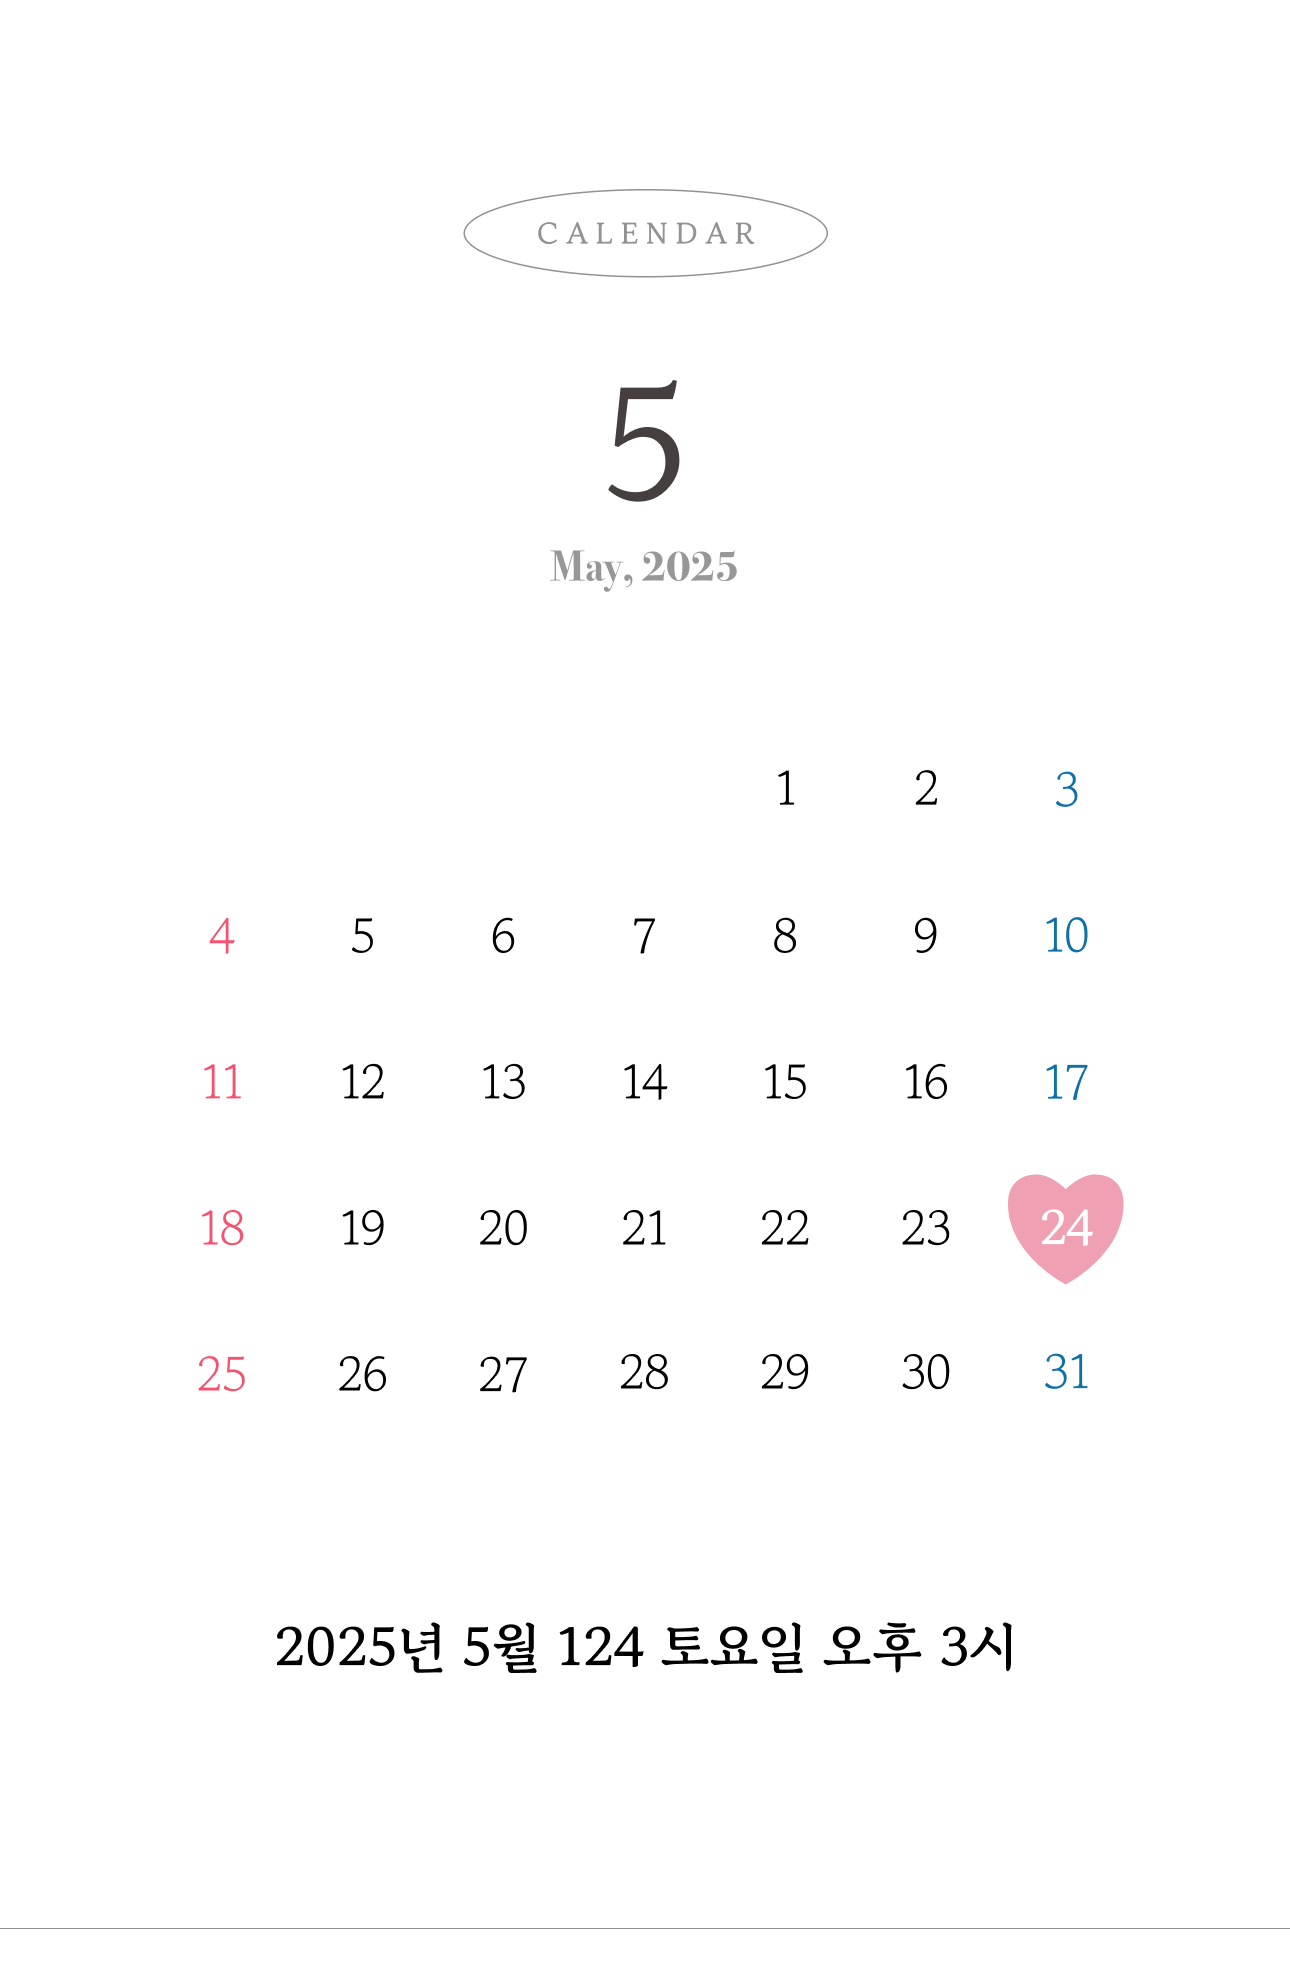
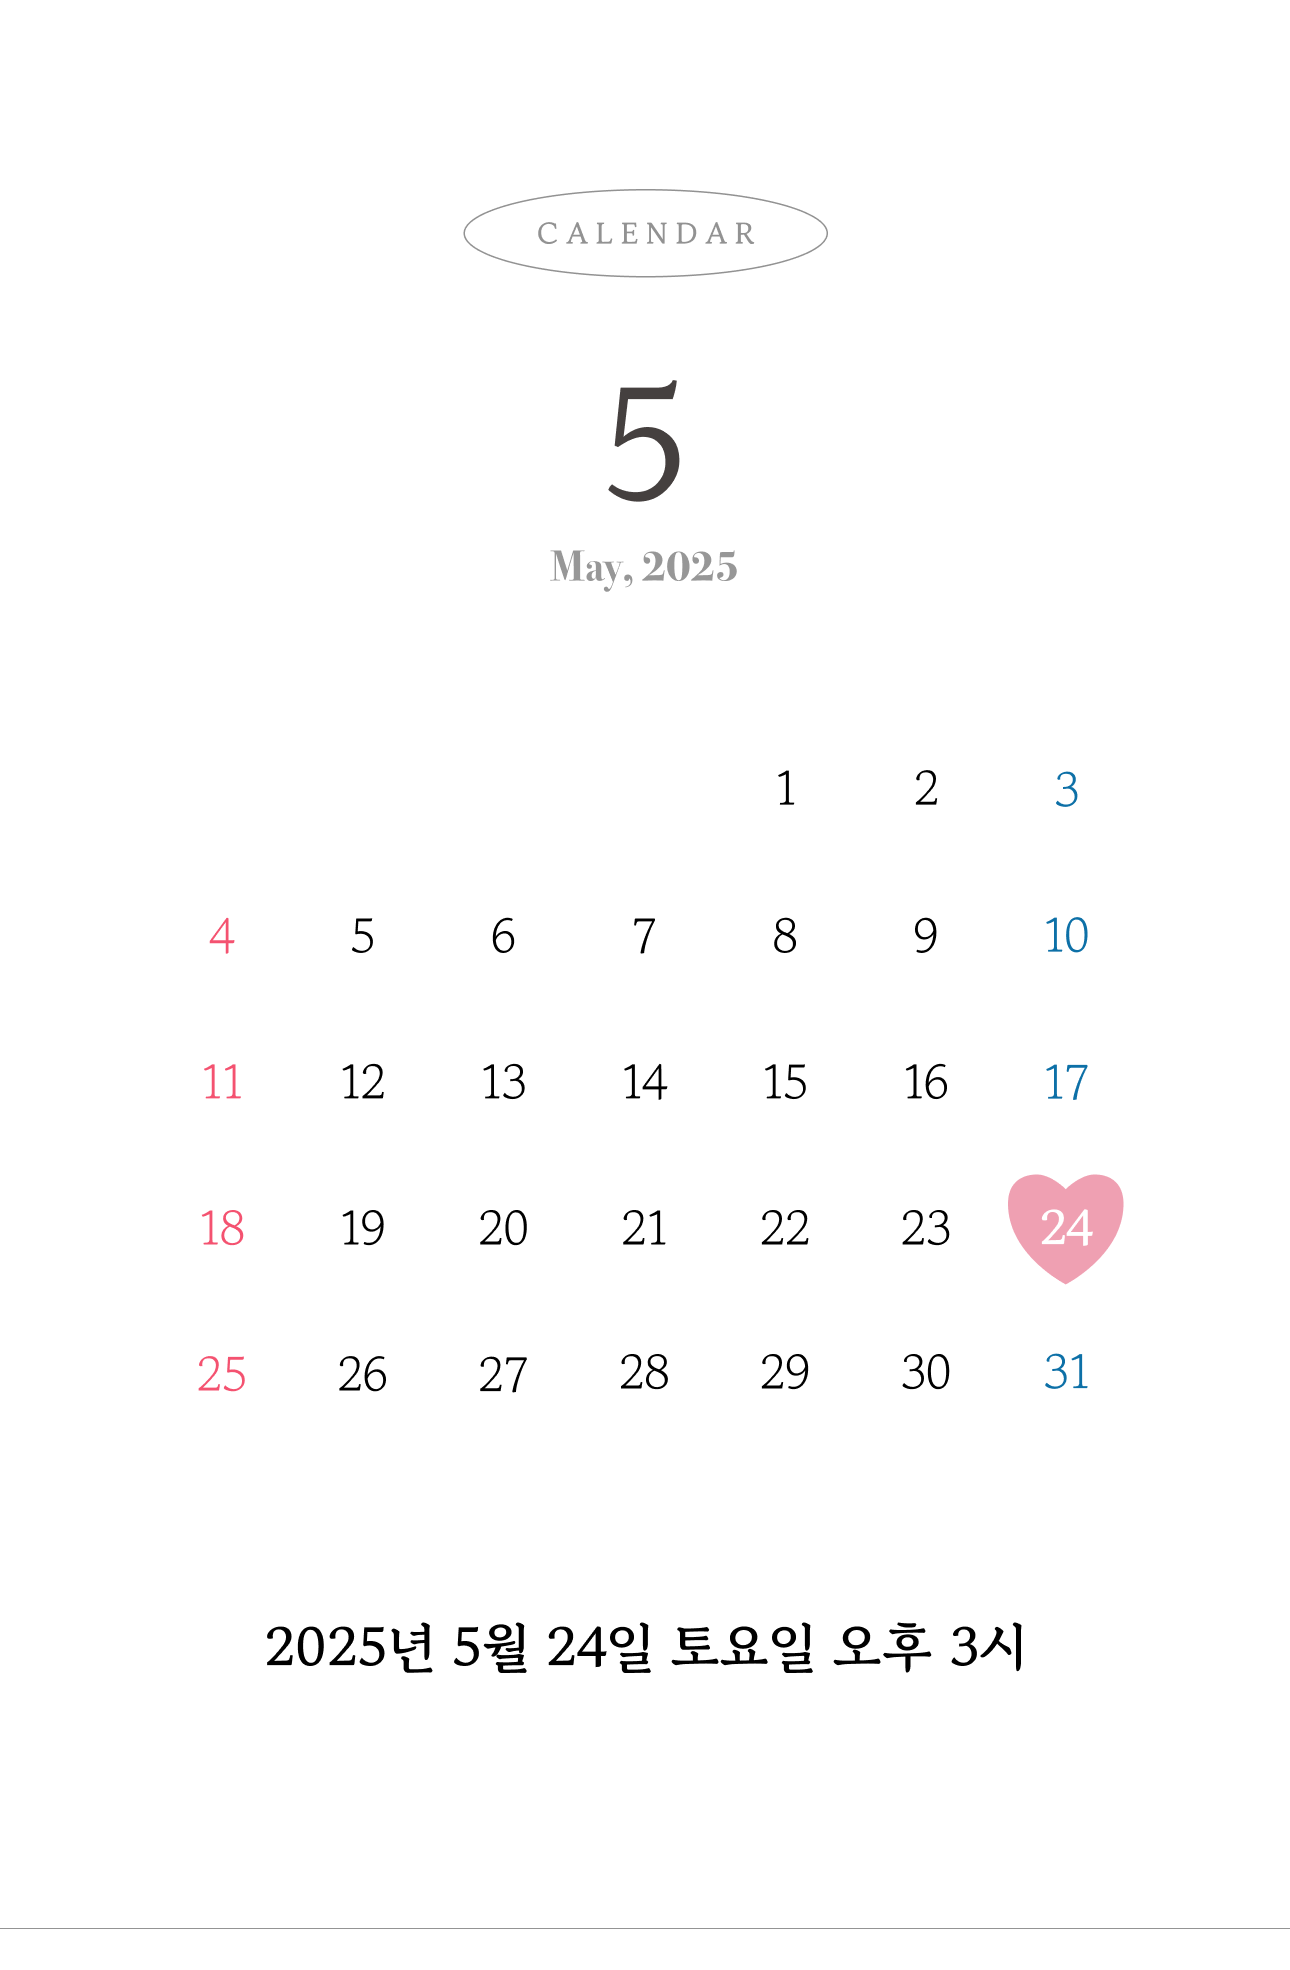
2

Changed region(s): [[0.2171, 0.8051, 0.7132, 0.867], [0.7442, 0.8051, 0.8062, 0.867]]

diff --git a/index.html b/index.html
@@ -175,7 +175,7 @@
       <section id="gallerySection">
         <div id="galleryImages" class="gallery">
           <span style="
-            color: #E8AF48;
+            color: #8E755F;
             font-size: 10px;
             min-width: 3rem;
             display: inline-block;"><b>G A L L E R Y</b></span><br>
@@ -229,7 +229,7 @@
               <th>SEC</th>
             </tr>
             <tr>
-              <td id="daysLeft" style="color: #FFA400; font-weight: 600">
+              <td id="daysLeft" style="color: #EFA0B2; font-weight: 600">
                 119
               </td>
               <td>:</td>
@@ -253,7 +253,7 @@
         <div class="animate-on-scroll">
 
           <span style="
-            color: #E8AF48;
+            color: #8E755F;
             font-size: 9px;
             min-width: 3rem;
             display: inline-block;"><b>L O C A T I O N</b></span>
@@ -341,7 +341,7 @@
       </div>
 
       <!-- map 길찾기 -->
-      <div class="animate-on-scroll" id="MapIconDiv" style="background-color: #F0CD44;">
+      <div class="animate-on-scroll" id="MapIconDiv" style="background-color: #AFAFAF;">
         <div>
           <a class="maplink" href="https://kko.kakao.com/_wVqFzIuvG">
             <div>

diff --git a/style.css b/style.css
@@ -125,7 +125,7 @@ svg {
 }
 
 #gallerySection {
-  background-color: #FDF8EB;
+  background-color: #F5F5F5;
   padding-top: 20%;
 }
 
@@ -133,7 +133,7 @@ svg {
   display: grid;
   grid-template-columns: repeat(2, minmax(0, 1fr));
   grid-gap: 5px;
-  background-color: #FDF8EB;
+  background-color: #F5F5F5;
   /* (A2) OPTIONAL WIDTH RESTRICT */
   max-width: 1000px;
   margin: 0 auto;
@@ -232,7 +232,7 @@ svg {
 }
 
 .countdownTimeInfo {
-  color: #FFA400;
+  color: #EFA0B2;
   font-weight: 600;
 }
 
@@ -274,7 +274,7 @@ svg {
 
 #locationSection {
   margin-top: 3%;
-  background-color: #FDF8EB;
+  background-color: #F5F5F5;
   height: 265px;
 }
 
@@ -339,7 +339,7 @@ main {
 }
 
 .accordion {
-  background-color: #FDF8EB;
+  background-color: #F5F5F5;
   color: black;
   cursor: pointer;
   padding: 0.8rem;
@@ -424,7 +424,7 @@ main {
 }
 
 #MapIconDiv {
-  color: #000000;
+  color: #ffffff;
   font-size: 13px;
   text-align: center;
   background-color: white;
@@ -436,7 +436,7 @@ main {
 }
 
 #kakaoMapButton {
-  background-color: #F0CD44;
+  background-color: #AFAFAF;
   padding: 10px;
   text-align: center;
   width: auto;

diff --git a/gallery.js b/gallery.js
@@ -46,22 +46,22 @@ window.onload = () => {
     Kakao.Share.sendDefault({
       objectType: "feed",
       content: {
-        title: "경훈 ♥ 은지의 모바일 청첩장",
-        description: "2025년 6월 7일 토요일♡",
+        title: "승연 ♥ 하린의 모바일 청첩장",
+        description: "2025년 5월 24일 토요일♡",
         imageUrl: "https://i.imgur.com/75T9hC4.png",
         imageWidth: 1200,
         imageHeight: 630,
         link: {
-          mobileWebUrl: "https://mo74.luvle.kr",
-          webUrl: "https://mo74.luvle.kr",
+          mobileWebUrl: "https://mo72.luvle.kr",
+          webUrl: "https://mo72.luvle.kr",
         },
       },
       buttons: [
         {
           title: "자세히 보기",
           link: {
-            mobileWebUrl: "https://mo74.luvle.kr",
-            webUrl: "https://mo74.luvle.kr",
+            mobileWebUrl: "https://mo72.luvle.kr",
+            webUrl: "https://mo72.luvle.kr",
           },
         },
       ],
